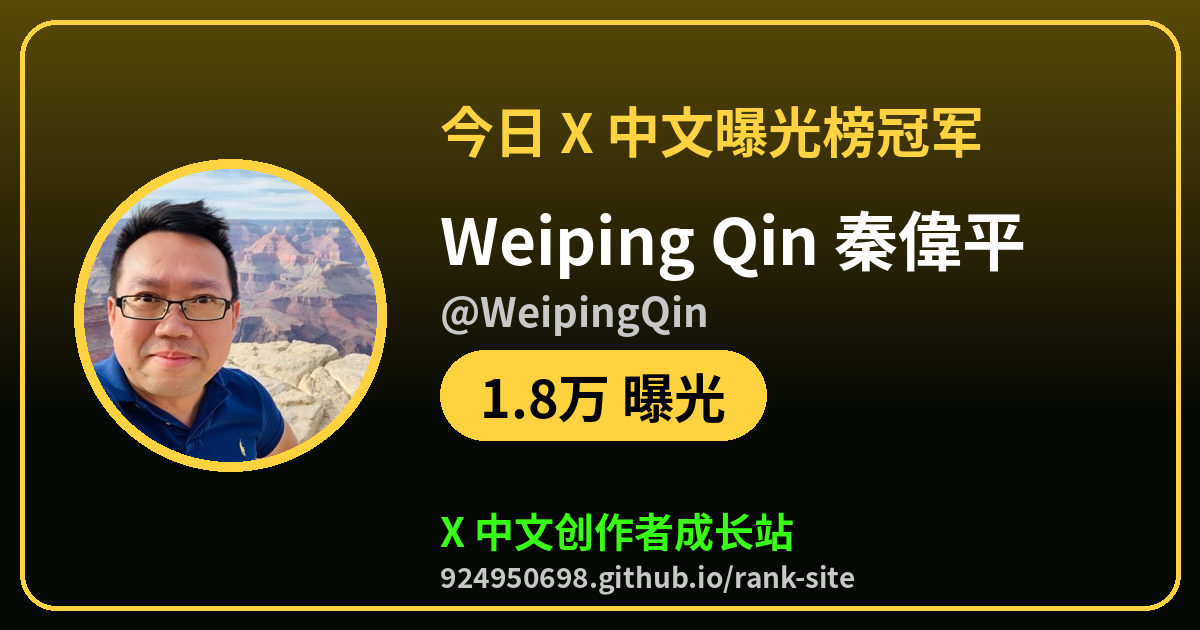
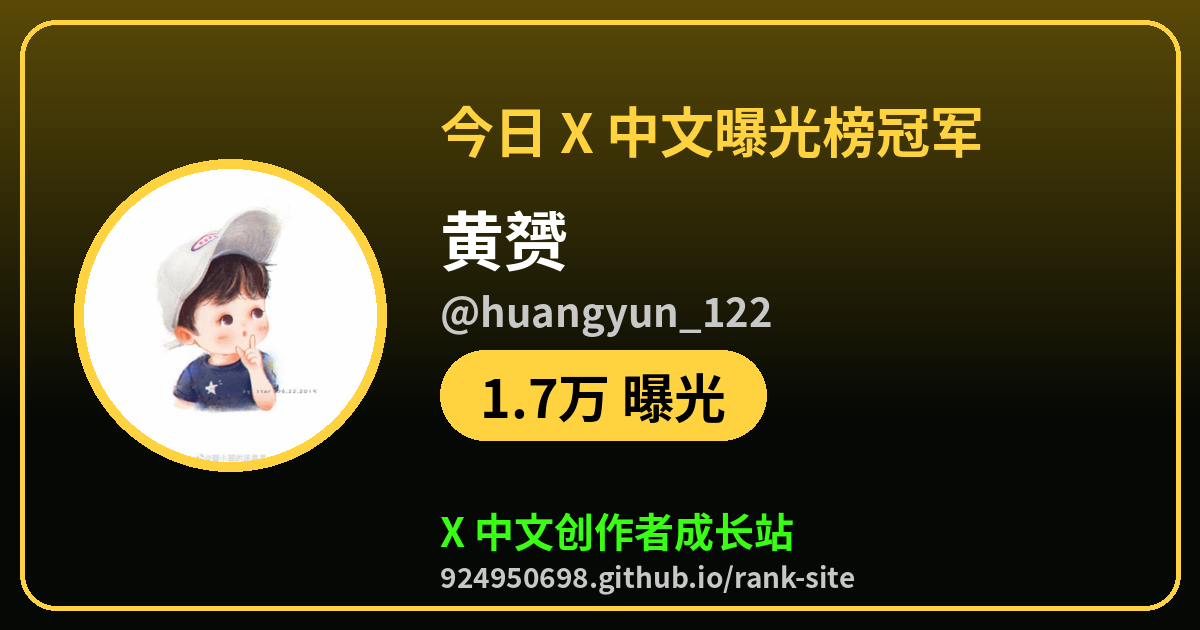
champ: 2026-10-21 01:30 CST

Changed region(s): [[0.0617, 0.2714, 0.3392, 0.754], [0.37, 0.3317, 0.8633, 0.5429], [0.4317, 0.6032, 0.4625, 0.6635]]

diff --git a/champ/exposure.html b/champ/exposure.html
@@ -1,7 +1,7 @@
 <!doctype html><html lang="zh-CN"><head><meta charset="utf-8"><meta name="viewport" content="width=device-width,initial-scale=1">
-<title>今日 X 中文曝光榜冠军：Weiping Qin 秦偉平（@WeipingQin）</title><meta name="description" content="1.8万 曝光，来看看今天谁在爆，你排第几">
-<meta property="og:type" content="website"><meta property="og:url" content="https://924950698.github.io/rank-site/champ/exposure.html"><meta property="og:title" content="今日 X 中文曝光榜冠军：Weiping Qin 秦偉平（@WeipingQin）"><meta property="og:description" content="1.8万 曝光，来看看今天谁在爆，你排第几">
-<meta property="og:image" content="https://924950698.github.io/rank-site/champ/exposure.png?v=20261020T1607"><meta name="twitter:card" content="summary_large_image"><meta name="twitter:site" content="@tigerr3aue">
-<meta name="twitter:title" content="今日 X 中文曝光榜冠军：Weiping Qin 秦偉平（@WeipingQin）"><meta name="twitter:description" content="1.8万 曝光，来看看今天谁在爆，你排第几"><meta name="twitter:image" content="https://924950698.github.io/rank-site/champ/exposure.png?v=20261020T1607">
-<meta http-equiv="refresh" content="0;url=https://924950698.github.io/rank-site/?champ=WeipingQin&amp;board=exposure#rank"><script>location.replace("https://924950698.github.io/rank-site/?champ=WeipingQin&board=exposure#rank")</script></head>
-<body style="background:#000;color:#fff;font-family:sans-serif;text-align:center;padding:40px"><a href="https://924950698.github.io/rank-site/?champ=WeipingQin&amp;board=exposure#rank" style="color:#39ff14">去 X 中文创作者成长站看冠军卡片</a></body></html>
+<title>今日 X 中文曝光榜冠军：黄赟（@huangyun_122）</title><meta name="description" content="1.7万 曝光，来看看今天谁在爆，你排第几">
+<meta property="og:type" content="website"><meta property="og:url" content="https://924950698.github.io/rank-site/champ/exposure.html"><meta property="og:title" content="今日 X 中文曝光榜冠军：黄赟（@huangyun_122）"><meta property="og:description" content="1.7万 曝光，来看看今天谁在爆，你排第几">
+<meta property="og:image" content="https://924950698.github.io/rank-site/champ/exposure.png?v=20261020T1705"><meta name="twitter:card" content="summary_large_image"><meta name="twitter:site" content="@tigerr3aue">
+<meta name="twitter:title" content="今日 X 中文曝光榜冠军：黄赟（@huangyun_122）"><meta name="twitter:description" content="1.7万 曝光，来看看今天谁在爆，你排第几"><meta name="twitter:image" content="https://924950698.github.io/rank-site/champ/exposure.png?v=20261020T1705">
+<meta http-equiv="refresh" content="0;url=https://924950698.github.io/rank-site/?champ=huangyun_122&amp;board=exposure#rank"><script>location.replace("https://924950698.github.io/rank-site/?champ=huangyun_122&board=exposure#rank")</script></head>
+<body style="background:#000;color:#fff;font-family:sans-serif;text-align:center;padding:40px"><a href="https://924950698.github.io/rank-site/?champ=huangyun_122&amp;board=exposure#rank" style="color:#39ff14">去 X 中文创作者成长站看冠军卡片</a></body></html>

diff --git a/champ/comments.html b/champ/comments.html
@@ -1,7 +1,7 @@
 <!doctype html><html lang="zh-CN"><head><meta charset="utf-8"><meta name="viewport" content="width=device-width,initial-scale=1">
-<title>今日 X 中文评论榜冠军：Anna汤圆🦅（@tangyuan131419）</title><meta name="description" content="653 评论，来看看今天谁在爆，你排第几">
-<meta property="og:type" content="website"><meta property="og:url" content="https://924950698.github.io/rank-site/champ/comments.html"><meta property="og:title" content="今日 X 中文评论榜冠军：Anna汤圆🦅（@tangyuan131419）"><meta property="og:description" content="653 评论，来看看今天谁在爆，你排第几">
-<meta property="og:image" content="https://924950698.github.io/rank-site/champ/comments.png?v=20261020T1607"><meta name="twitter:card" content="summary_large_image"><meta name="twitter:site" content="@tigerr3aue">
-<meta name="twitter:title" content="今日 X 中文评论榜冠军：Anna汤圆🦅（@tangyuan131419）"><meta name="twitter:description" content="653 评论，来看看今天谁在爆，你排第几"><meta name="twitter:image" content="https://924950698.github.io/rank-site/champ/comments.png?v=20261020T1607">
+<title>今日 X 中文评论榜冠军：Anna汤圆🦅（@tangyuan131419）</title><meta name="description" content="654 评论，来看看今天谁在爆，你排第几">
+<meta property="og:type" content="website"><meta property="og:url" content="https://924950698.github.io/rank-site/champ/comments.html"><meta property="og:title" content="今日 X 中文评论榜冠军：Anna汤圆🦅（@tangyuan131419）"><meta property="og:description" content="654 评论，来看看今天谁在爆，你排第几">
+<meta property="og:image" content="https://924950698.github.io/rank-site/champ/comments.png?v=20261020T1705"><meta name="twitter:card" content="summary_large_image"><meta name="twitter:site" content="@tigerr3aue">
+<meta name="twitter:title" content="今日 X 中文评论榜冠军：Anna汤圆🦅（@tangyuan131419）"><meta name="twitter:description" content="654 评论，来看看今天谁在爆，你排第几"><meta name="twitter:image" content="https://924950698.github.io/rank-site/champ/comments.png?v=20261020T1705">
 <meta http-equiv="refresh" content="0;url=https://924950698.github.io/rank-site/?champ=tangyuan131419&amp;board=comments#rank"><script>location.replace("https://924950698.github.io/rank-site/?champ=tangyuan131419&board=comments#rank")</script></head>
 <body style="background:#000;color:#fff;font-family:sans-serif;text-align:center;padding:40px"><a href="https://924950698.github.io/rank-site/?champ=tangyuan131419&amp;board=comments#rank" style="color:#39ff14">去 X 中文创作者成长站看冠军卡片</a></body></html>
